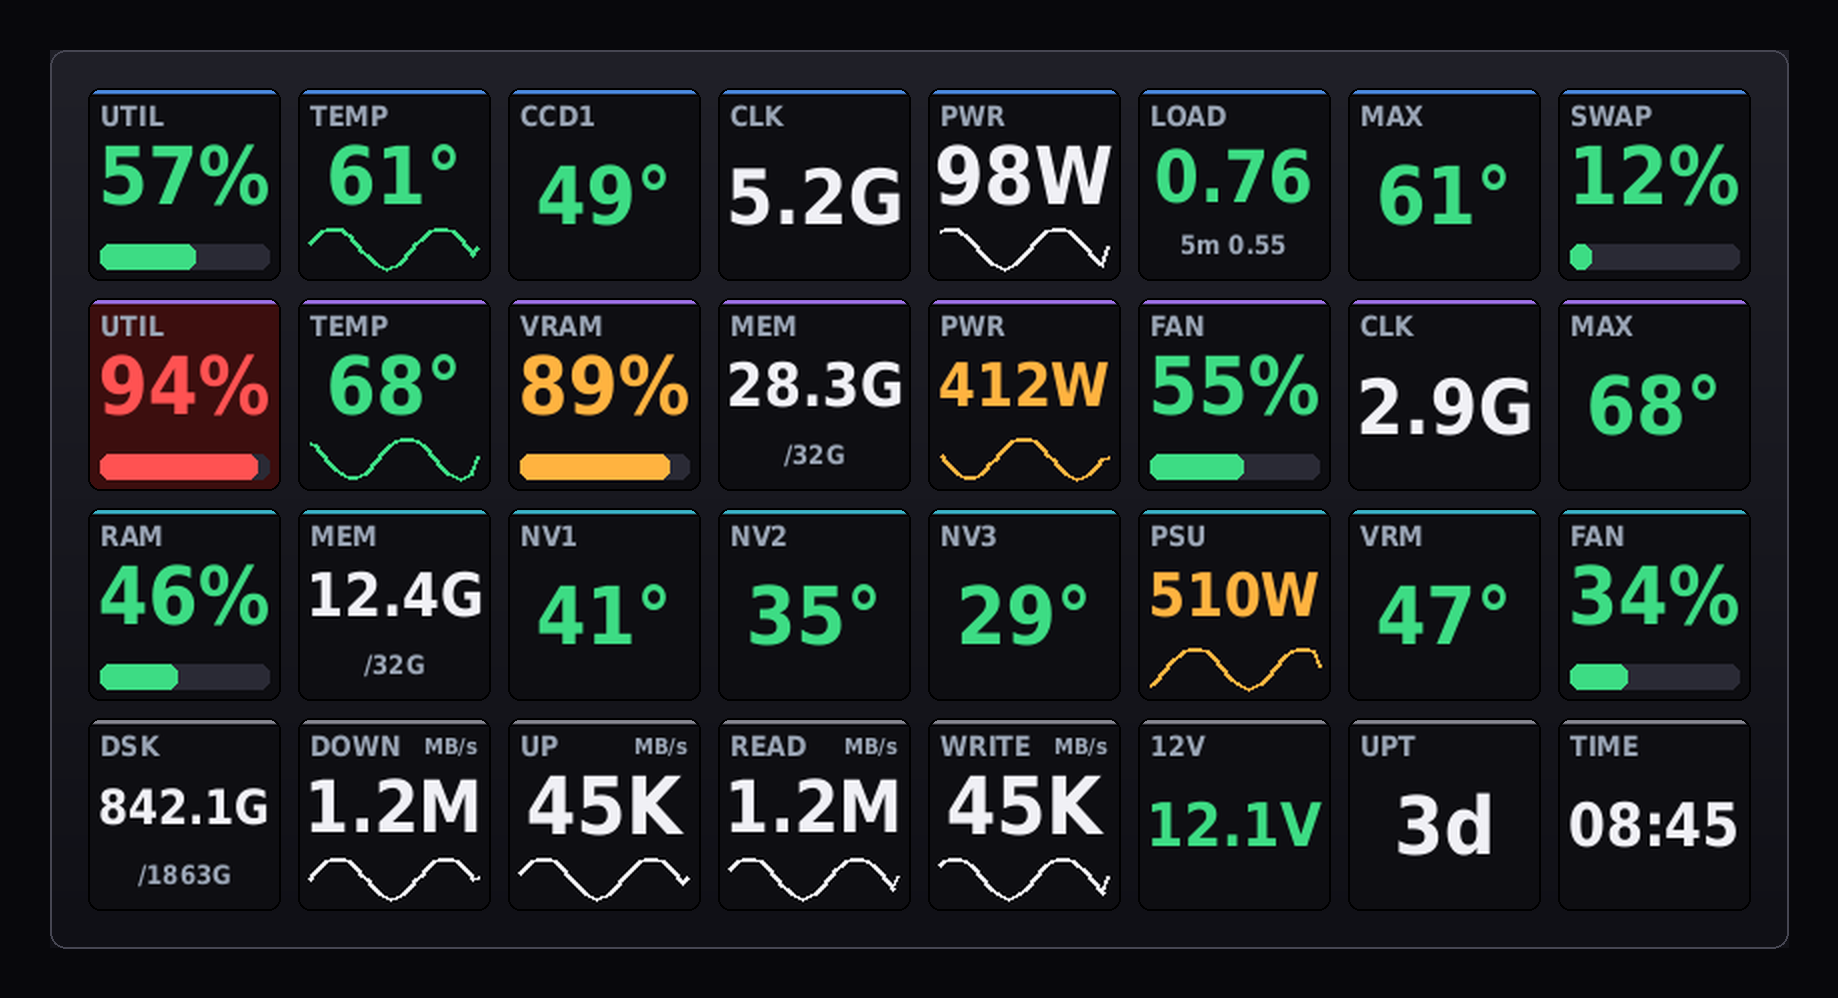
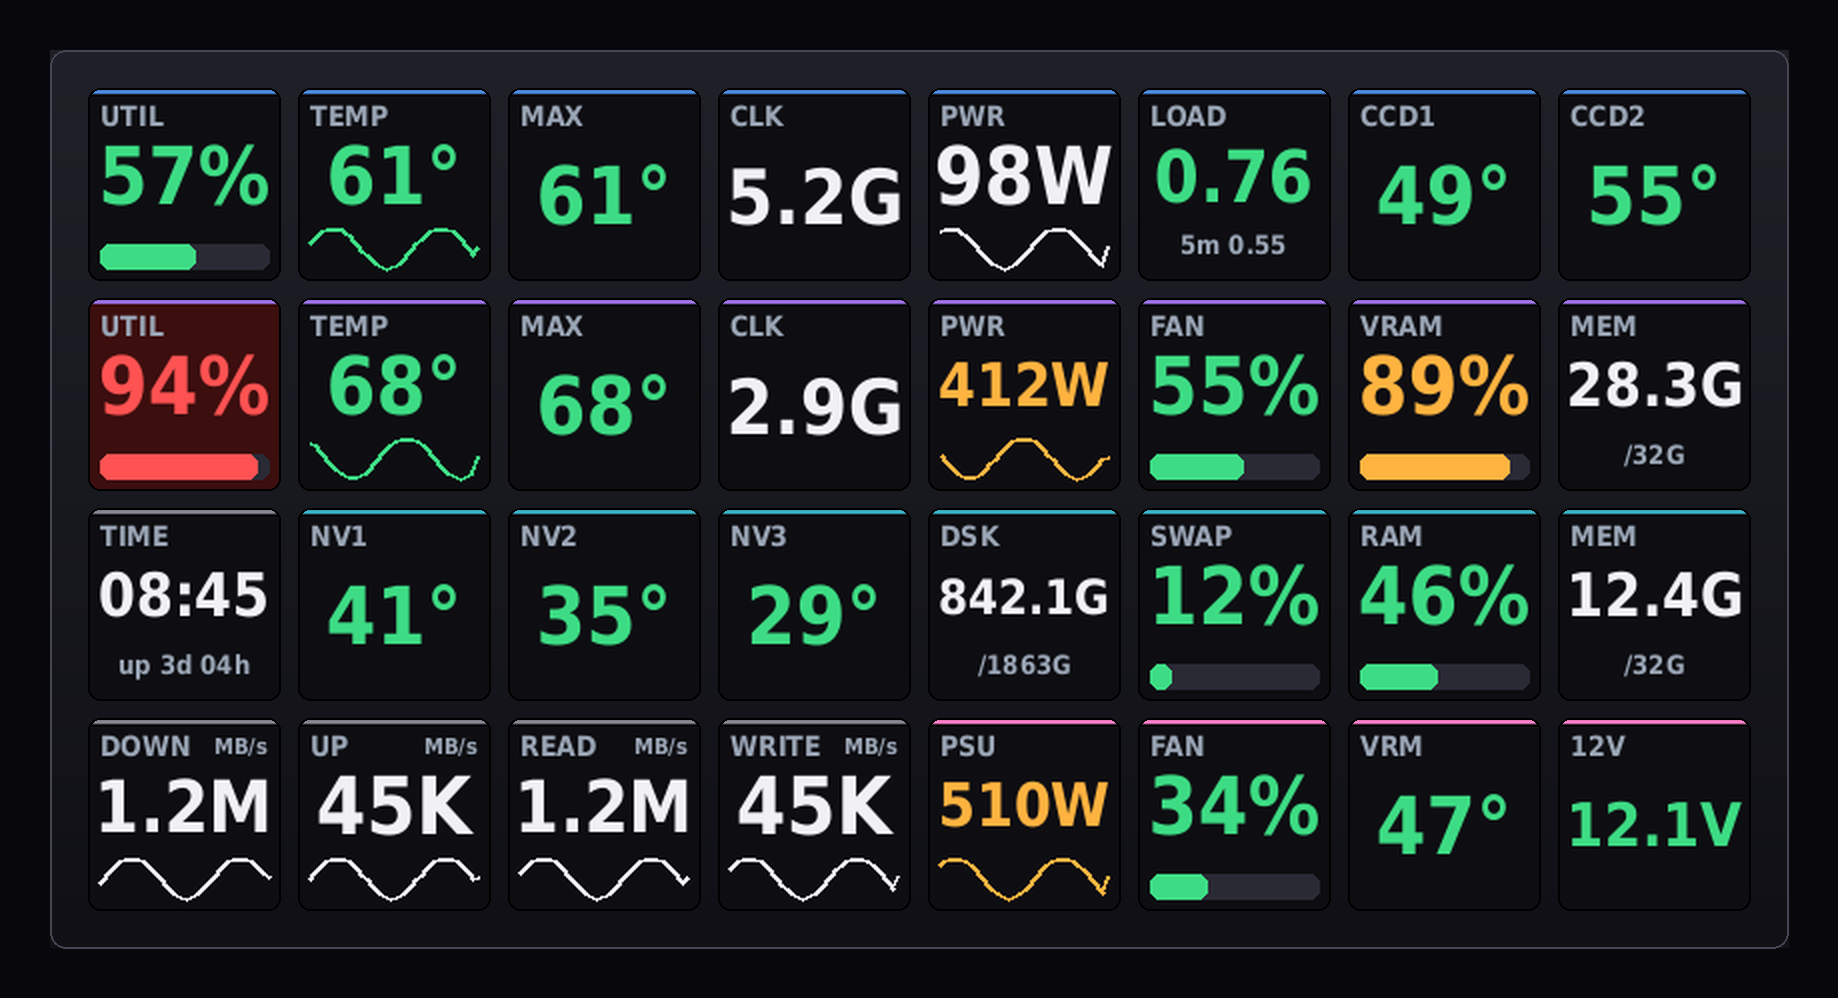
docs: describe the grouped layout in the README and refresh the mockup

diff --git a/README.md b/README.md
@@ -11,15 +11,17 @@ hwmon and `nvidia-smi`.
 ## Layout
 
 ```
-ROW 0  CPU     UTIL | TEMP | CCD2 | CLK | PWR | LOAD | MAX | SWAP
-ROW 1  GPU     UTIL | TEMP | VRAM | MEM | PWR | FAN  | CLK | MAX
-ROW 2  SYSTEM  RAM  | MEM  | NV1  | NV2 | NV3 | PSU  | VRM | FAN
-ROW 3  LINUX   DSK  | DOWN | UP   | READ|WRITE| 12V  | UPT | TIME
+        0     1     2     3     4     5     6     7
+CPU     UTIL  TEMP  MAX   CLK   PWR   LOAD  CCD1  CCD2
+GPU     UTIL  TEMP  MAX   CLK   PWR   FAN   VRAM  MEM
+SYSTEM  TIME  NV1   NV2   NV3   DSK   SWAP  RAM   MEM
+I/O+PSU DOWN  UP    READ  WRITE PSU   FAN   VRM   12V
 ```
 
-The CCD key is `CCD2` when the CPU exposes a second CCD (`temp4_input` on
-`k10temp`), `CCD1` otherwise: on a dual-CCD Ryzen 9, CCD1 is nearly a copy of
-`TEMP` (Tctl), while CCD2 is the half nobody watches.
+Columns 0–4 of the CPU and GPU rows carry the same metric in the same column,
+so the two rows read as one table and a value can be compared vertically. `PSU`
+sits under the two `PWR` keys (all watts) and the PSU `FAN` under the GPU `FAN`.
+Row 3 is I/O on the left and power supply on the right.
 
 ## Graphic rules
 
@@ -32,6 +34,9 @@ The CCD key is `CCD2` when the CPU exposes a second CCD (`temp4_input` on
   of its own — the rates: `DOWN` `UP` `READ` `WRITE` show `MB/s`. If the label
   plus the unit would not fit, the unit is dropped for that key only
 - `LOAD` shows the 1 min average large, with the 5 min one as a small second line
+- `TIME` shows the clock large, with the uptime underneath: `up 3d 04h`,
+  `up 4h 07m`, `up 12m`. Uptime comes from `psutil.boot_time()`, so it also
+  covers suspend time (a `time.monotonic()` uptime would not)
 - `MEM` (GPU), `MEM` (RAM) and `DSK` show the total as a small second line:
   `28.3G` over `/32G`, `842.1G` over `/1863G`. A missing total means no line,
   never a fake one
@@ -44,9 +49,14 @@ The CCD key is `CCD2` when the CPU exposes a second CCD (`temp4_input` on
   in priority order: bar → sub-line → sparkline. The line is scaled min-max over
   the window, with a minimum span of 1 % of the value so a flat series stays flat
   instead of blowing up sensor noise, and it is drawn in the key's current color
-- A 3 px accent strip on the top edge of every key marks the row:
-  blue = CPU, violet = GPU, cyan = SYSTEM, gray = LINUX. These hues are
-  outside the green/amber/red family on purpose, which is reserved for status
+- A 3 px accent strip on the top edge of every key marks its group:
+  blue = CPU row, violet = GPU row, cyan = SYSTEM row, gray = `TIME` (a clock,
+  not a system metric) and the I/O keys, pink = the power-supply half of row 3.
+  These hues are outside the green/amber/red family on purpose, which is
+  reserved for status
+- `CCD2` reads the `k10temp` sensor labelled `Tccd2` and shows `--` when the CPU
+  has a single CCD (or is not an AMD with `k10temp`): it never falls back to
+  another sensor, so a `--` there really means "this CPU has no second CCD"
 - Temperatures: green normal → yellow → red
 - `LOAD` has no absolute warning level: it is normalised by core count, yellow
   from 70 % of the cores, red from 100 %. The 5 min average stays a gray sub-line
@@ -61,10 +71,12 @@ The CCD key is `CCD2` when the CPU exposes a second CCD (`temp4_input` on
 
 | Group | Sources |
 |---|---|
-| CPU | `psutil` (load), `k10temp` or `coretemp` hwmon (Tctl/CCD2), RAPL (power), cpufreq (max core clock) |
+| CPU | `psutil` (UTIL), `/proc/loadavg` (LOAD, 1 and 5 min), `k10temp` or `coretemp` hwmon (TEMP, CCD1, CCD2), RAPL (PWR), cpufreq (max core CLK) |
 | GPU | `nvidia-smi` (util, temp, VRAM, power, fan, clock) |
-| System | RAM/swap (`psutil.virtual_memory`, `psutil.swap_memory`), up to 3 NVMe hwmon temperatures (NV1–NV3), `corsairpsu` hwmon *(optional: power, VRM, fan, 12 V rail)* |
-| Linux | `/proc/loadavg`, `/proc/net/dev`, `/proc/diskstats`, `os.statvfs("/")` (DSK: free space), `psutil.boot_time()` (uptime, suspend-aware), clock |
+| SYSTEM | RAM/swap (`psutil.virtual_memory`, `psutil.swap_memory`), NVMe hwmon temperatures (NV1–NV3), `os.statvfs("/")` (DSK: free space) |
+| I/O | `/proc/net/dev` (DOWN, UP), `/proc/diskstats` (READ, WRITE) |
+| PSU | `corsairpsu` hwmon *(optional: power, VRM, fan, 12 V rail)* |
+| Clock | local time, `psutil.boot_time()` (uptime, suspend-aware) |
 
 Everything is auto-detected: the CPU temperature chip, the RAPL package
 domain, the NVMe drives and the PSU are looked up at startup and reported on
@@ -144,7 +156,7 @@ Corsair PSU); other hardware works, some keys fall back:
 | Key | Intended | Fallback when unavailable |
 |---|---|---|
 | CPU PWR | RAPL package power | **PSU total − GPU** (rest of the system) if the counter is unreadable |
-| CPU CCD | CCD2 temperature | **CCD1** on CPUs with a single CCD (8-core X3D parts, most Intel) |
+| CPU CCD2 | second CCD temperature (`Tccd2`) | **`--`** on CPUs with a single CCD (8-core X3D parts, most Intel) |
 | CPU FAN | motherboard fan | no fan sensor on the MSI board → uses the PSU fan (pwm %) |
 | CPU 12V | vcore | vcore not exposed → **PSU 12V rail** |
 | GPU MAX | hotspot | hotspot not exposed by `nvidia-smi` → rolling peak of GPU temp |
